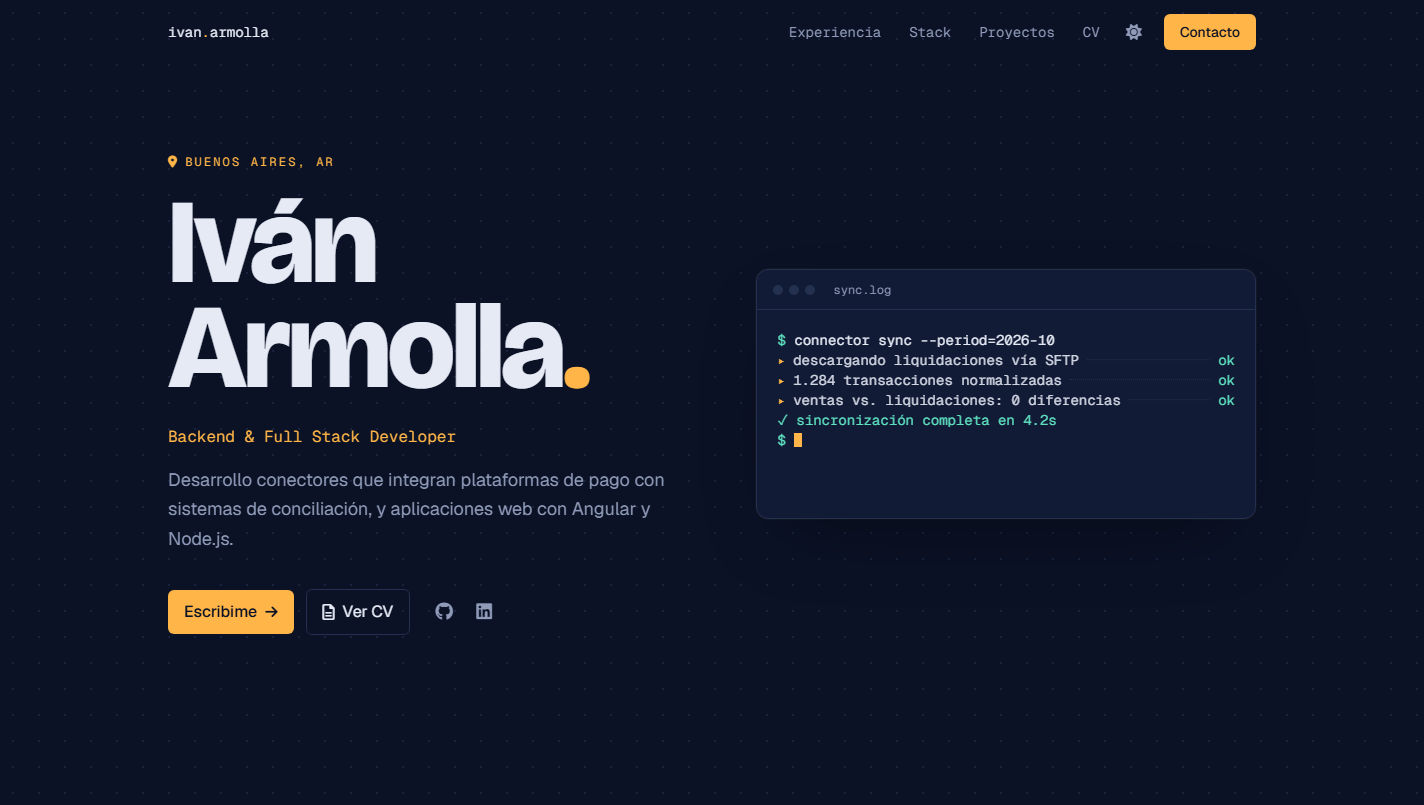
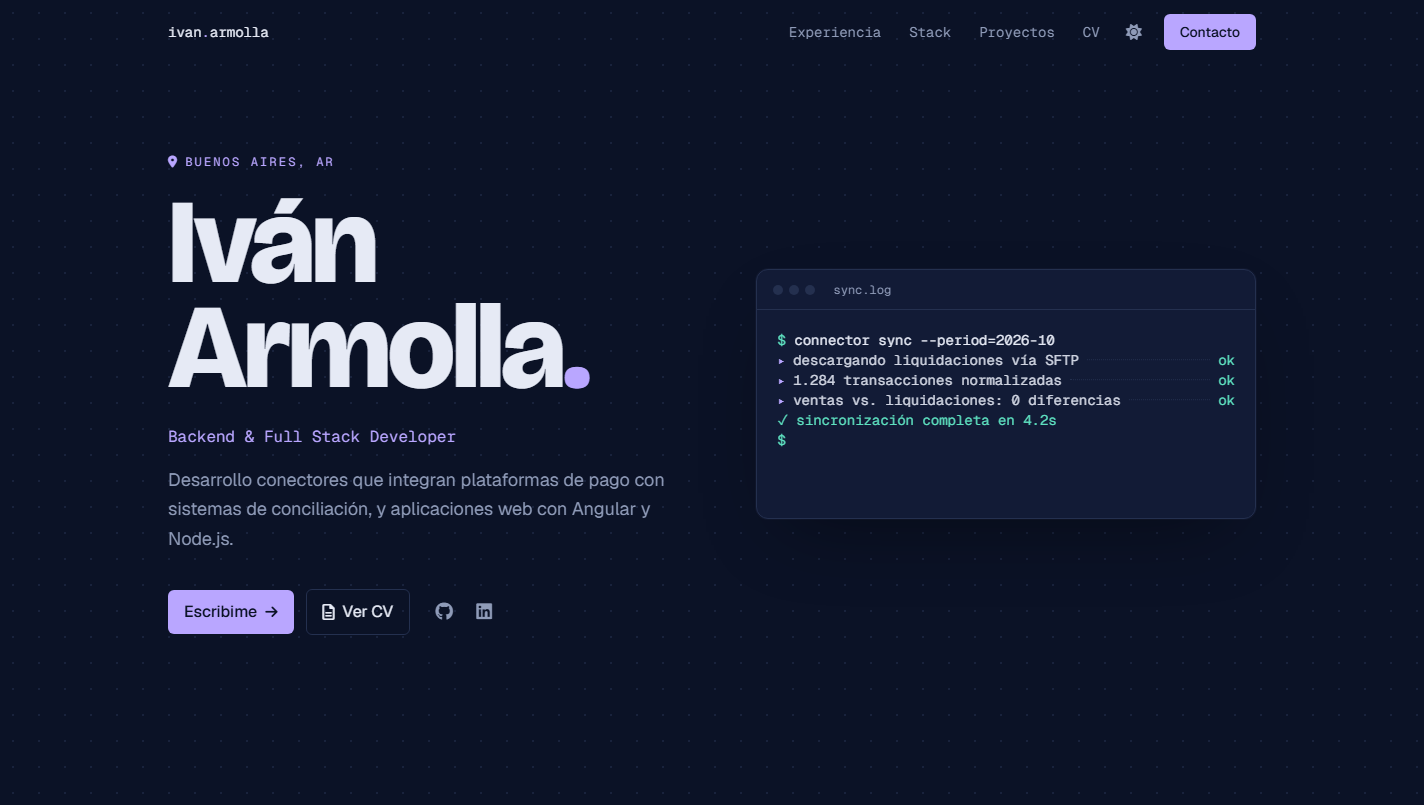
feat: switch accent color from amber to lavender

diff --git a/src/styles.css b/src/styles.css
@@ -11,7 +11,7 @@
     --line: 211 220 234;
     --fg: 18 27 54;
     --muted: 86 98 127;
-    --accent: 143 86 0;
+    --accent: 91 63 209;
     --ok: 11 122 103;
     color-scheme: light;
 }
@@ -22,7 +22,7 @@ html.dark {
     --line: 36 48 79;
     --fg: 230 234 245;
     --muted: 143 155 184;
-    --accent: 255 181 71;
+    --accent: 185 166 255;
     --ok: 94 225 192;
     color-scheme: dark;
 }

diff --git a/README.md b/README.md
@@ -4,7 +4,7 @@
 
 Portfolio personal de Iván Armolla, desarrollador backend y full stack. Una sola página con mi experiencia, el stack que usé en cada trabajo, proyectos personales y un formulario de contacto.
 
-La v2 es un rediseño completo con dirección visual **"Consola nocturna"**: fondo azul tinta, acentos en ámbar y, en la portada, una terminal que simula la sincronización de un conector de pagos (lo que hago en mi trabajo diario).
+La v2 es un rediseño completo con dirección visual **"Consola nocturna"**: fondo azul tinta, acentos en lavanda y, en la portada, una terminal que simula la sincronización de un conector de pagos (lo que hago en mi trabajo diario).
 
 ## Características 📋
 
